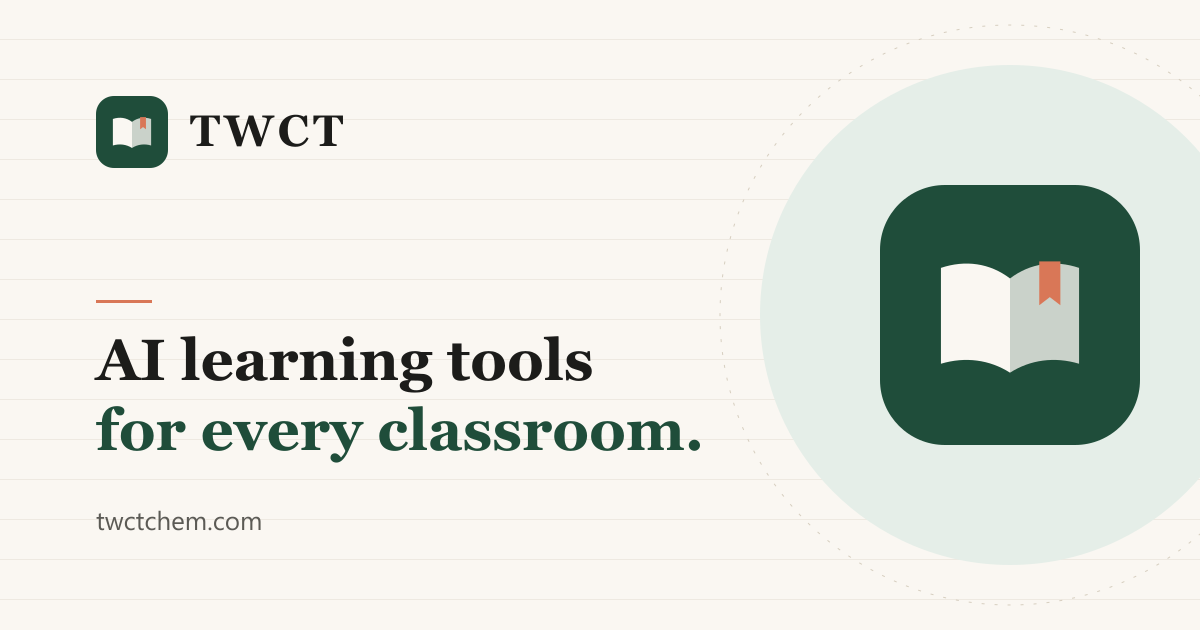
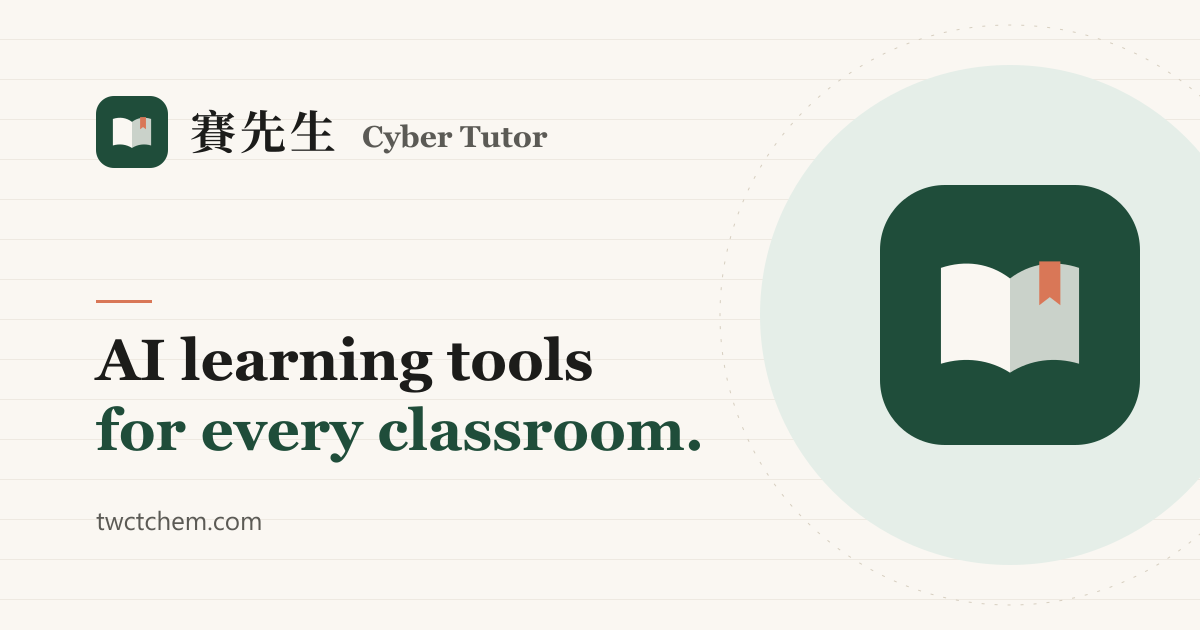
Unify brand name, speed up first paint and fix accessibility issues
- Logo, aria-labels, contact form sender and OG image use the brand
  name (賽先生 / Cyber Tutor) instead of TWCT; remove site.shortName
- Hero no longer waits for the reveal script, and Google Fonts load
  without blocking render (observed FCP ~1.0s -> ~0.35s)
- Darken --accent-strong to #a14b2c so it passes AA on --accent-soft,
  use --ink-muted for footer small print, and make link labels include
  their visible text (Lighthouse accessibility 96 -> 100)
- CLAUDE.md: GitHub Pages deployment, design rules, remaining to-dos

Changed region(s): [[0.1542, 0.181, 0.4625, 0.2413]]

diff --git a/src/styles/global.css b/src/styles/global.css
@@ -16,7 +16,7 @@
   --primary-deep: #143326;
   --primary-soft: #e5eee8;
   --accent: #d97757;
-  --accent-strong: #a9502f; /* 文字用，對米白與淡橘底皆達 AA */
+  --accent-strong: #a14b2c; /* 文字用，對米白、淡橘、淡綠底皆達 AA（淡橘底 4.83:1） */
   --accent-soft: #f7e5dc;
   --line: #e7e1d6;
   --line-strong: #d6cebf;

diff --git a/src/site.config.ts b/src/site.config.ts
@@ -4,9 +4,7 @@
  */
 export const site = {
   url: 'https://twctchem.com',
-  /** 品牌簡稱，用在 Logo 文字 */
-  shortName: 'TWCT',
-  /** 公司正式名稱 */
+  /** 品牌名稱：Logo、網頁標題、頁尾版權都用這個（依語言切換） */
   name: {
     'zh-TW': '賽先生',
     en: 'Cyber Tutor',

diff --git a/CLAUDE.md b/CLAUDE.md
@@ -30,13 +30,15 @@ Astro 靜態網站，push 到 GitHub `main` 後由 GitHub Actions（`.github/wor
 ## 設計系統（`src/styles/global.css`）
 - **只用 CSS 變數**：`--bg`、`--bg-alt`、`--surface`、`--ink`、`--ink-muted`、`--primary`、`--accent`、`--accent-strong`、`--line` 等，不要自己寫新的色碼
 - **陶土橘**：只用在小面積強調，文字要用 `--accent-strong`；主要按鈕一律用墨綠
+- **對比**：文字至少 4.5:1；`--ink-subtle` 在 `--bg-alt` 上不夠（4.15:1），淺米色底的小字改用 `--ink-muted`
+- **字體**：Google Fonts 用 `preload` + `onload` 非阻擋載入（`BaseLayout.astro` 的 `fontsHref`），中文字體很大，不要改回一般的 stylesheet 連結
 - **現成的 class**
   - `.container`、`.section`、`.section--alt`、`.section--surface`
   - `.eyebrow`、`.lead`、`.btn btn--primary|secondary|light|sm`
   - `.link-arrow`、`.badge badge--live|beta|coming-soon`、`.tag`
 - **區塊標題**：用 `<SectionHeading eyebrow title lead />`
 - **頁尾 CTA**：用 `<CTABanner />`
-- **進場動畫**：在元素上加 `data-reveal`，錯開時間用 `style="--reveal-delay: .08s"`
+- **進場動畫**：在元素上加 `data-reveal`，錯開時間用 `style="--reveal-delay: .08s"`。**第一屏（hero）不要加**：它會讓內容在 JS 執行前保持透明，拖慢 LCP
 - **質感原則**：留白多、圓角 12–20px、細米灰框線、陰影要很淡，不用圖庫照片
 
 ## 進度
@@ -45,10 +47,11 @@ Astro 靜態網站，push 到 GitHub `main` 後由 GitHub Actions（`.github/wor
 補充：
 - FAQ 資料在 `src/data/faq.ts`；法律頁條文在 `i18n` 的 `privacy` / `terms`，由 `LegalLayout.astro` 渲染，條文裡的 `{company}`、`{email}` 會自動代入，最後更新日期在 `site.config.ts` 的 `legalUpdated`
 - 文案裡的 `{days}` 等佔位字串用 `fill()`（`i18n/utils.ts`）代入
-- 聯絡表單是 `ContactForm.astro`，需要先把 `site.config.ts` 的 `web3formsKey` 換成真的 key，否則送出會顯示失敗
-- 404 同時有 `src/pages/404.astro` 與 `src/pages/en/404.astro`（Vercel 只會用 `/404.html`，所以頁面上同時顯示兩種語言）
+- 聯絡表單是 `ContactForm.astro`，用 Web3Forms 寄到 sales@twctchem.com（key 在 `site.config.ts`）
+- 404 同時有 `src/pages/404.astro` 與 `src/pages/en/404.astro`（GitHub Pages 只會用 `/404.html`，所以頁面上同時顯示兩種語言）
 
 待完成：
-1. 把 `site.config.ts` 的佔位字串（公司名稱、統編、成立年份、Web3Forms key）換成真實資料
-2. 隱私權政策、服務條款（公司目前沒有法務，頁面已不標註「請法務確認」；上線前由負責人逐條對照實際營運情形確認）
-3. 驗證：Lighthouse 分數、部署後實際送出一次表單
+1. 隱私權政策、服務條款（公司目前沒有法務，頁面已不標註「請法務確認」；上線前由負責人逐條對照實際營運情形確認）
+2. 部署後實際送出一次聯絡表單，確認 sales@twctchem.com 收得到
+
+已驗證（2026-10-09，Lighthouse 12.8）：無障礙 100、最佳做法 100、SEO 100（首頁、產品、FAQ、關於、聯絡）。效能以實際瀏覽器量測為準：首次繪製約 0.35 秒；Lighthouse 模擬的手機分數浮動很大，主因是約 2.5MB 的中文網路字體
